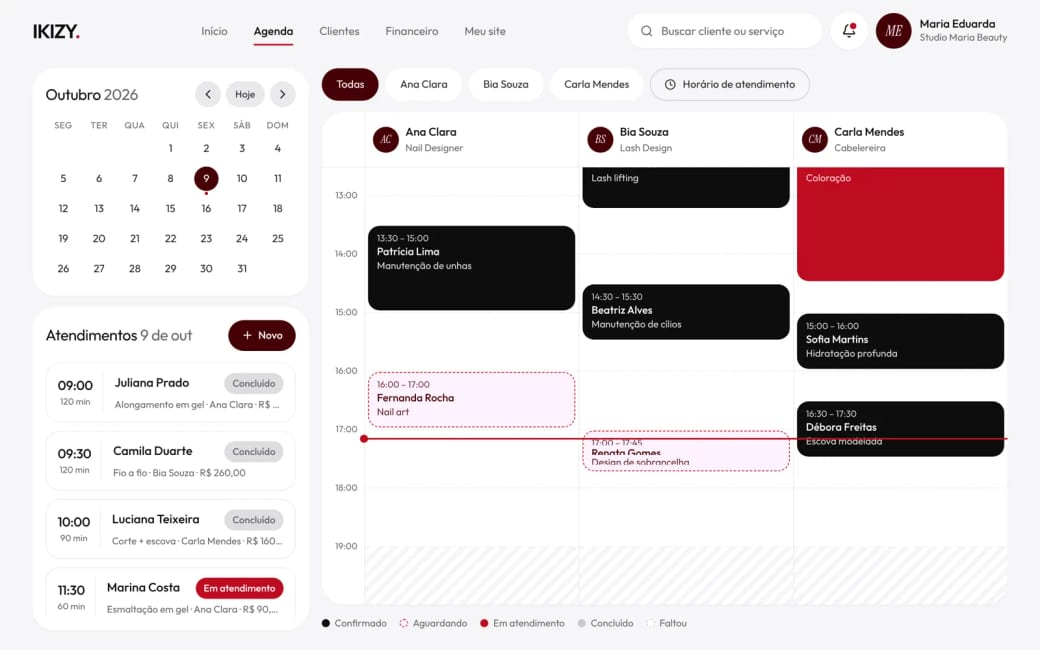
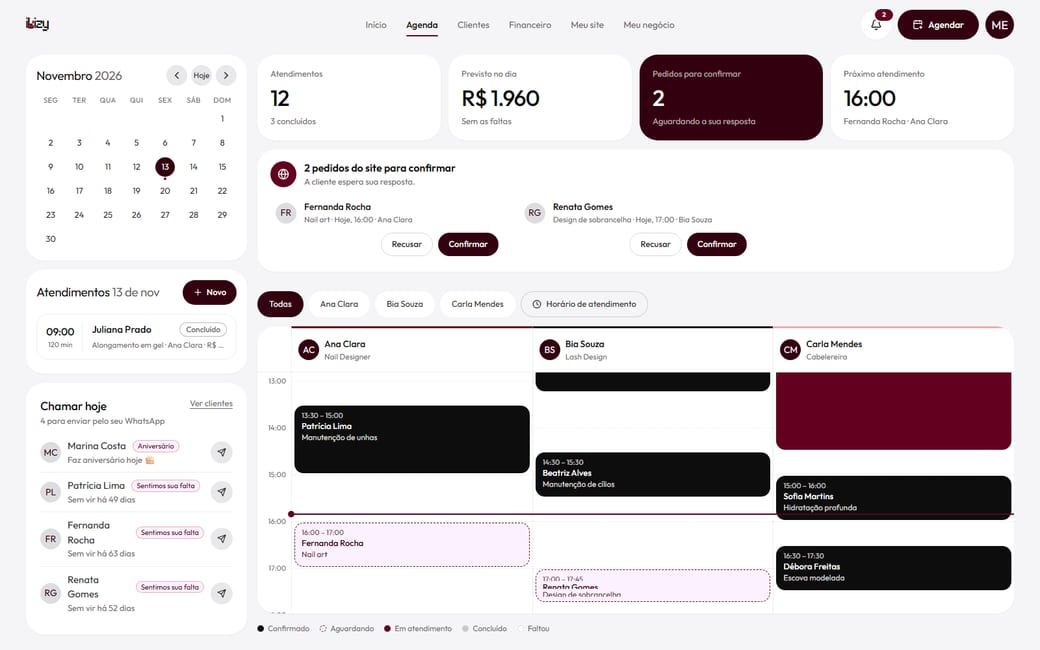
feat(email): prints atualizados no e-mail de boas-vindas
Agenda, Meu site e Início (com o painel de primeiros passos, que o passo 3 cita)
saem agora do capturar-telas.mjs junto com os da landing; o email-arte.ts deixa
de gerar as telas.

diff --git a/apps/landing/scripts/email-arte.ts b/apps/landing/scripts/email-arte.ts
@@ -3,7 +3,7 @@
  *   coelho.png        o coelho de símbolos da landing (src/lib/pixelArt.ts), branco sobre vinho, com a boca rosa
  *   logo-coelho.png   o coelho da logo, branco, para o rodapé
  *   instagram.png     ícone do Instagram, branco
- *   tela-*.jpg        telas do sistema para o e-mail de boas-vindas
+ * As telas do sistema do e-mail de boas-vindas (tela-*.jpg) saem de scripts/capturar-telas.mjs.
  * Uso: npx tsx scripts/email-arte.ts
  */
 import sharp from 'sharp'
@@ -12,7 +12,6 @@ import { fileURLToPath } from 'node:url'
 import { bunnyField, paintField } from '../src/lib/pixelArt.ts'
 
 const dir = fileURLToPath(new URL('../public/email/', import.meta.url))
-const telas = fileURLToPath(new URL('../public/telas/', import.meta.url))
 mkdirSync(dir, { recursive: true })
 const WINE = '#0e0d0d'
 
@@ -48,10 +47,4 @@ writeFileSync(dir + 'logo-coelho.png', logo)
 // ---- instagram
 const insta = await sharp(Buffer.from(`<svg xmlns="http://www.w3.org/2000/svg" width="72" height="72" viewBox="0 0 24 24" fill="none" stroke="#fff" stroke-width="1.9" stroke-linecap="round"><rect x="3" y="3" width="18" height="18" rx="5.2"/><circle cx="12" cy="12" r="4.1"/><circle cx="17.3" cy="6.7" r="0.6" fill="#fff"/></svg>`)).png().toBuffer()
 writeFileSync(dir + 'instagram.png', insta)
-
-// ---- telas do sistema, cortadas em 16:10 e reduzidas
-for (const n of ['inicio', 'agenda', 'site']) {
-  const jpg = await sharp(telas + n + '.webp').resize({ width: 1040 }).jpeg({ quality: 82, mozjpeg: true }).toBuffer()
-  writeFileSync(dir + `tela-${n}.jpg`, jpg)
-}
 console.log('ok', { coelho: coelho.length, logo: logo.length, insta: insta.length })
